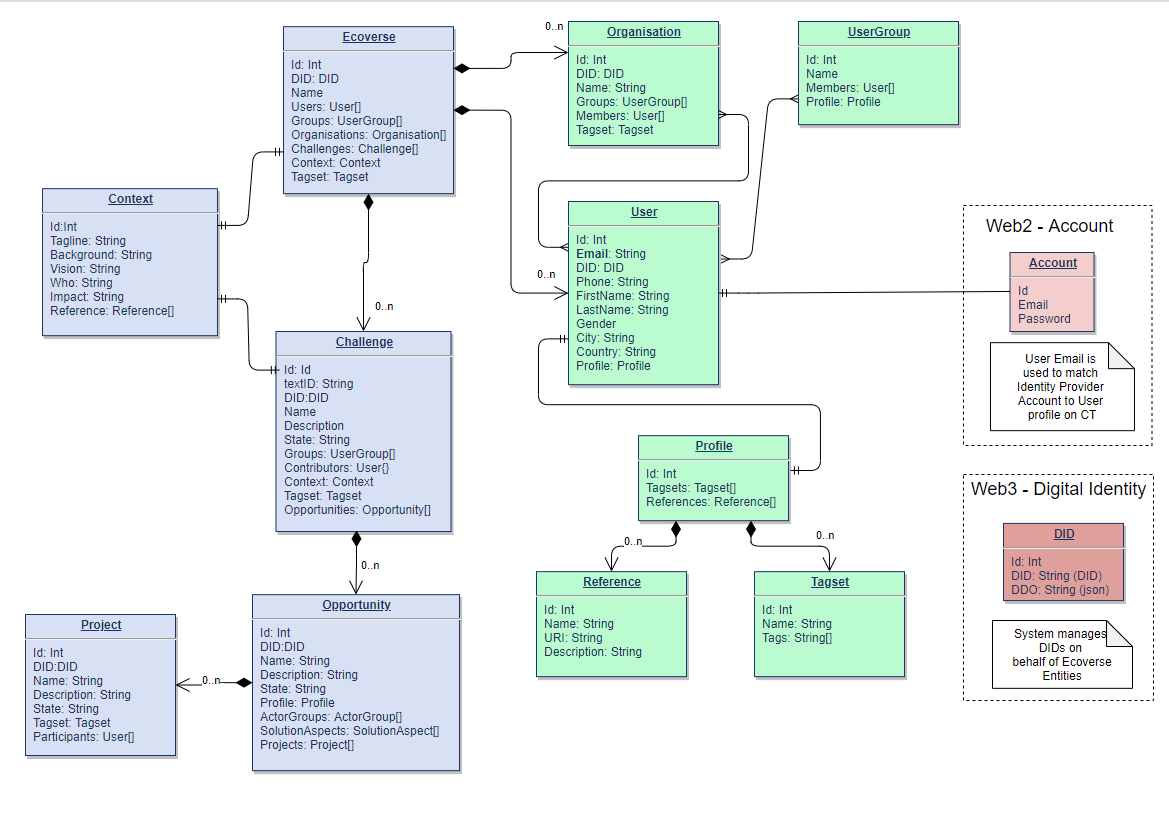
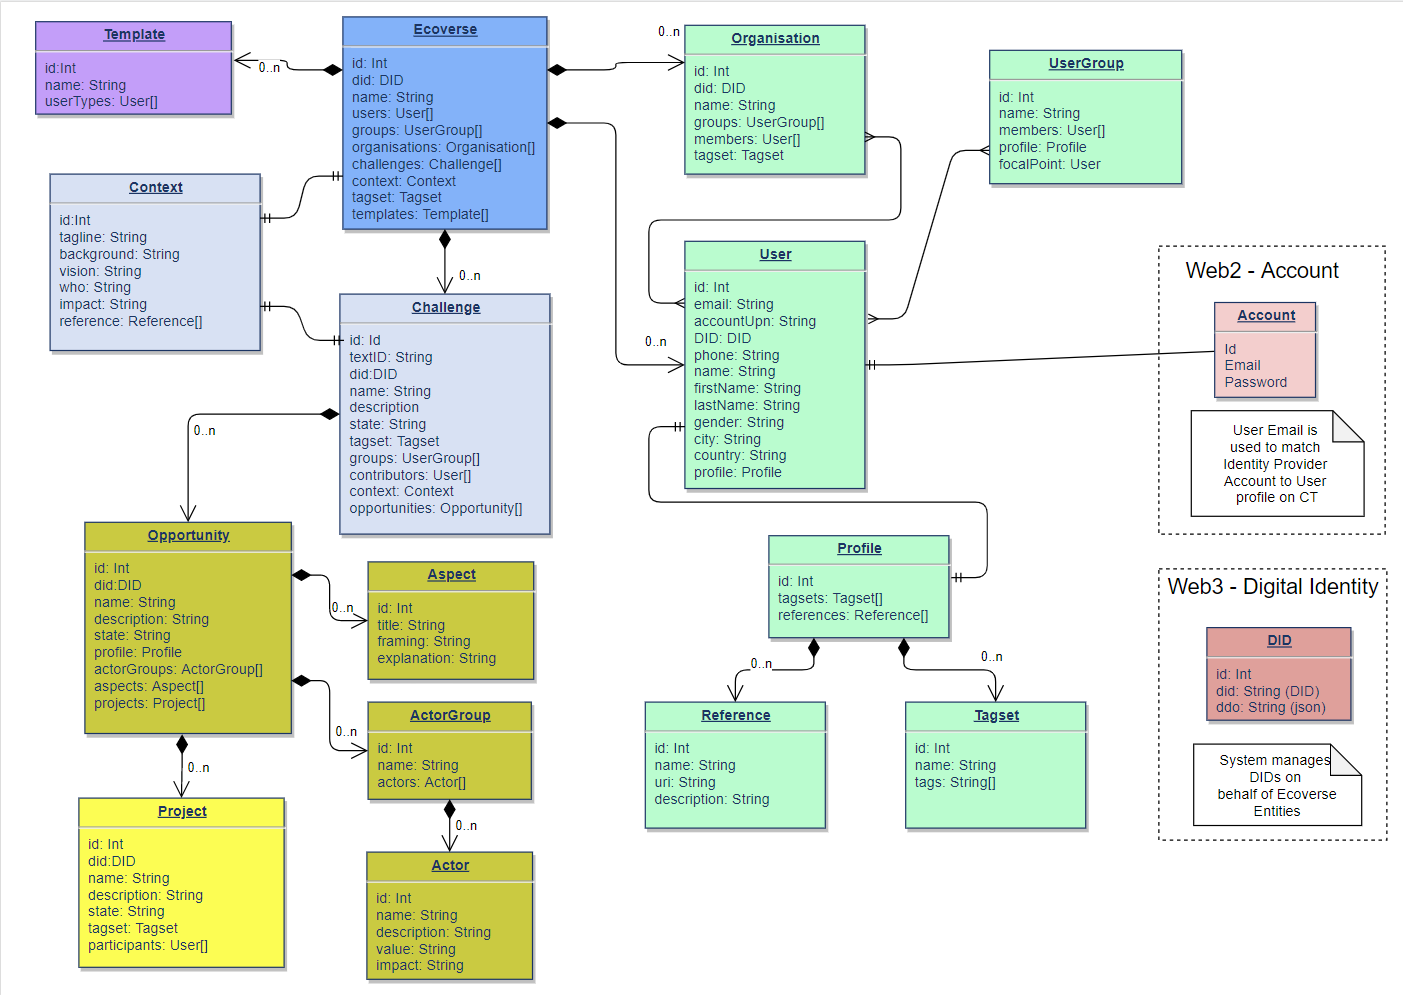
updated the logical data model; updated text to cover new entities + expand template explanation

diff --git a/Design/TechnicalDesign.md b/Design/TechnicalDesign.md
@@ -100,16 +100,18 @@ The key entities in the model are:
     *   **Organisation**: To reflect legal entities that interact with the platform via one or more users. 
 *   Challenge related Entities
     * **Challenge**: the shared goal / vision. Progress towards the goal will require multiple stakeholders collaborating on a non-trivial journey, building up understanding, community and resources as the journey progresses.
-    * **Opportunity**: a potential significant step towards the shared goal. Likely that multiple Opportunities are identified in the context of the Challenge, each with their own lifecycle & that need to be ranked / prioritised.
-
+    * **Opportunity**: a potential significant step towards the shared goal. Likely that multiple Opportunities are identified in the context of the Challenge, each with their own lifecycle & that need to be ranked / prioritised. 
+        * **ActorGroups**: The different groups of actors who are identified and/or engaged in realising this Opportunity
+        * **Aspects**: The aspects to solutions for this Opportunity
     * **Project**: a defined outcome, formalised as an agreement between parties collaborating in the context an Opportunity. Potentially multiple projects needed to deliver an Opportunity.
 *   **Context**: The shared understanding, at either Ecoverse or Challenge level. 
 *   **Web 2 Account**: A web2 based account that allows a user to interact with the platform in a familiar manner. A user can login if there is a known user whose email matches the email for the Account from the Identity Provider.
-*   Self Sovereign Identity (SSI) entities
+*   **SSI**: Self Sovereign Identity (SSI) entities
     * **DID**: the persistent decentralised identifier as per W3C standard
     * **DDO**: The document describing the DID, with roles etc. 
+* **Template**: a template is a set of entity definitions that are used by an Ecoverse. For example holding different types of users (i.e. what tagsets are expected on a user and what value selection is allowed). 
 
-To facilitate flexible usages of this data model, most key entities can have **Tagsets** associated with them, allowing for easy filtering + connecting
+To facilitate flexible usages of this data model, most key entities have either a **Tagsets** or a **Profile** (containing multiple Tagsets) associated with them, allowing for easy filtering + connecting
 *   Tags allow for a fairly unstructured entity relationship model to be used in a variety of ways.
 *   There are likely to be a variety of tag sorts in use: user profiles, ecoverse tags (e.g. partner), host tags (crew) etc. 
 
@@ -215,38 +217,43 @@ The Cherrytwist platform is initially deployed in an “empty” state, without 
 The platform can have a single Ecoverse deployed onto it. 
 
 
-## Ecoverse Template
+## Populating an Ecoverse
+This section describes the steps and supporting entities for working with an Ecoverse. 
 
-The definition of the Ecoverse is held in a “Ecoverse Template” file that contains:
+### Structure
+The structural setup of the Ecoverse is held in a “Ecoverse Setup file, external to Cherrytwist that contains:
 
 *   The Identity for the Ecoverse e.g. Odyssey, YES!Delft, OdysseyTest etc
 *   The description of the Ecoverse, including all related information such as the Ecoverse Host etc
-*   The UserGroups to be used within the Ecoverse
+*   The UserGroups to be used at the Ecoverse level
     *   E.g. Jedis, ChallengeLeads, Crew, …
-*   Tags to be used within the Ecoverse
-    *   E.g. Jedi, skills based tags etc
 
-A user with the role of “global admin” is able to deploy the Ecoverse Template.
+### Templates
+A Template contains Entities that are used by the Ecoverse to create Entities with flexible usage patterns. Examples of the kind of information that could be stored within a Template include:
+* Definitions of types of users, such as what tagsets are expected on a particular user type (e.g. skills, interests, ...)
+* Challenge states, user groups, ...
+* Opportunity aspects, actor groups, ...
+
+The template setup is currently only used for holding User profile setup data, but the approach is designed to be extended and support e.g. having multiple Challenge / Opportunity / Project templates available for selection by Ecoverse users.
 
 The evolution of the Ecoverse instance from deploying a template and then instantiating a challenge is shown below:
 
 ![Template deployment](./Images/DesignTemplates.png "Template deployment")
 
-Note in particular that a set of additional roles are created as part of the template deployment process, as well as additional entities. 
+#### Challenge, Project & User Group Templates
 
-## Challenge, Project & User Group Templates
-
-Further, the following additional templates will be supported:
+Further, the following entities will have enhanced templatiing supporte:
 *   Challenge Template
+*   Opportunity Template
 *   Project Template
 *   User Group Template
 
-In particular the Project Template is likely to have multiple variations possible to reflect the multiple ways a project may want to be executed. A Challenge Lead would then select a template to use when launching the challenge.
+In particular the Project Template is likely to have multiple variations possible to reflect the multiple ways a project may want to be executed. An Opportunity Lead would then select a template to use when launching the challenge.
 
-These additional templates may be part of the Ecoverse Template or uploaded later, and they initially all require the “global admin”role.
+These additional templates may be part of the Ecoverse Template or uploaded later, and they initially all require the “global admin” role.
 
 
-## Exportable & Uploadable Representation
+### Exportable & Uploadable Representation
 
 In addition to supporting the usage of Templates, the platform also needs to be able to export and import fully defined Challenges. These should reference a Challenge Template that they are based on and then provide the actual data to be populated into that Challenge instance. 
 
